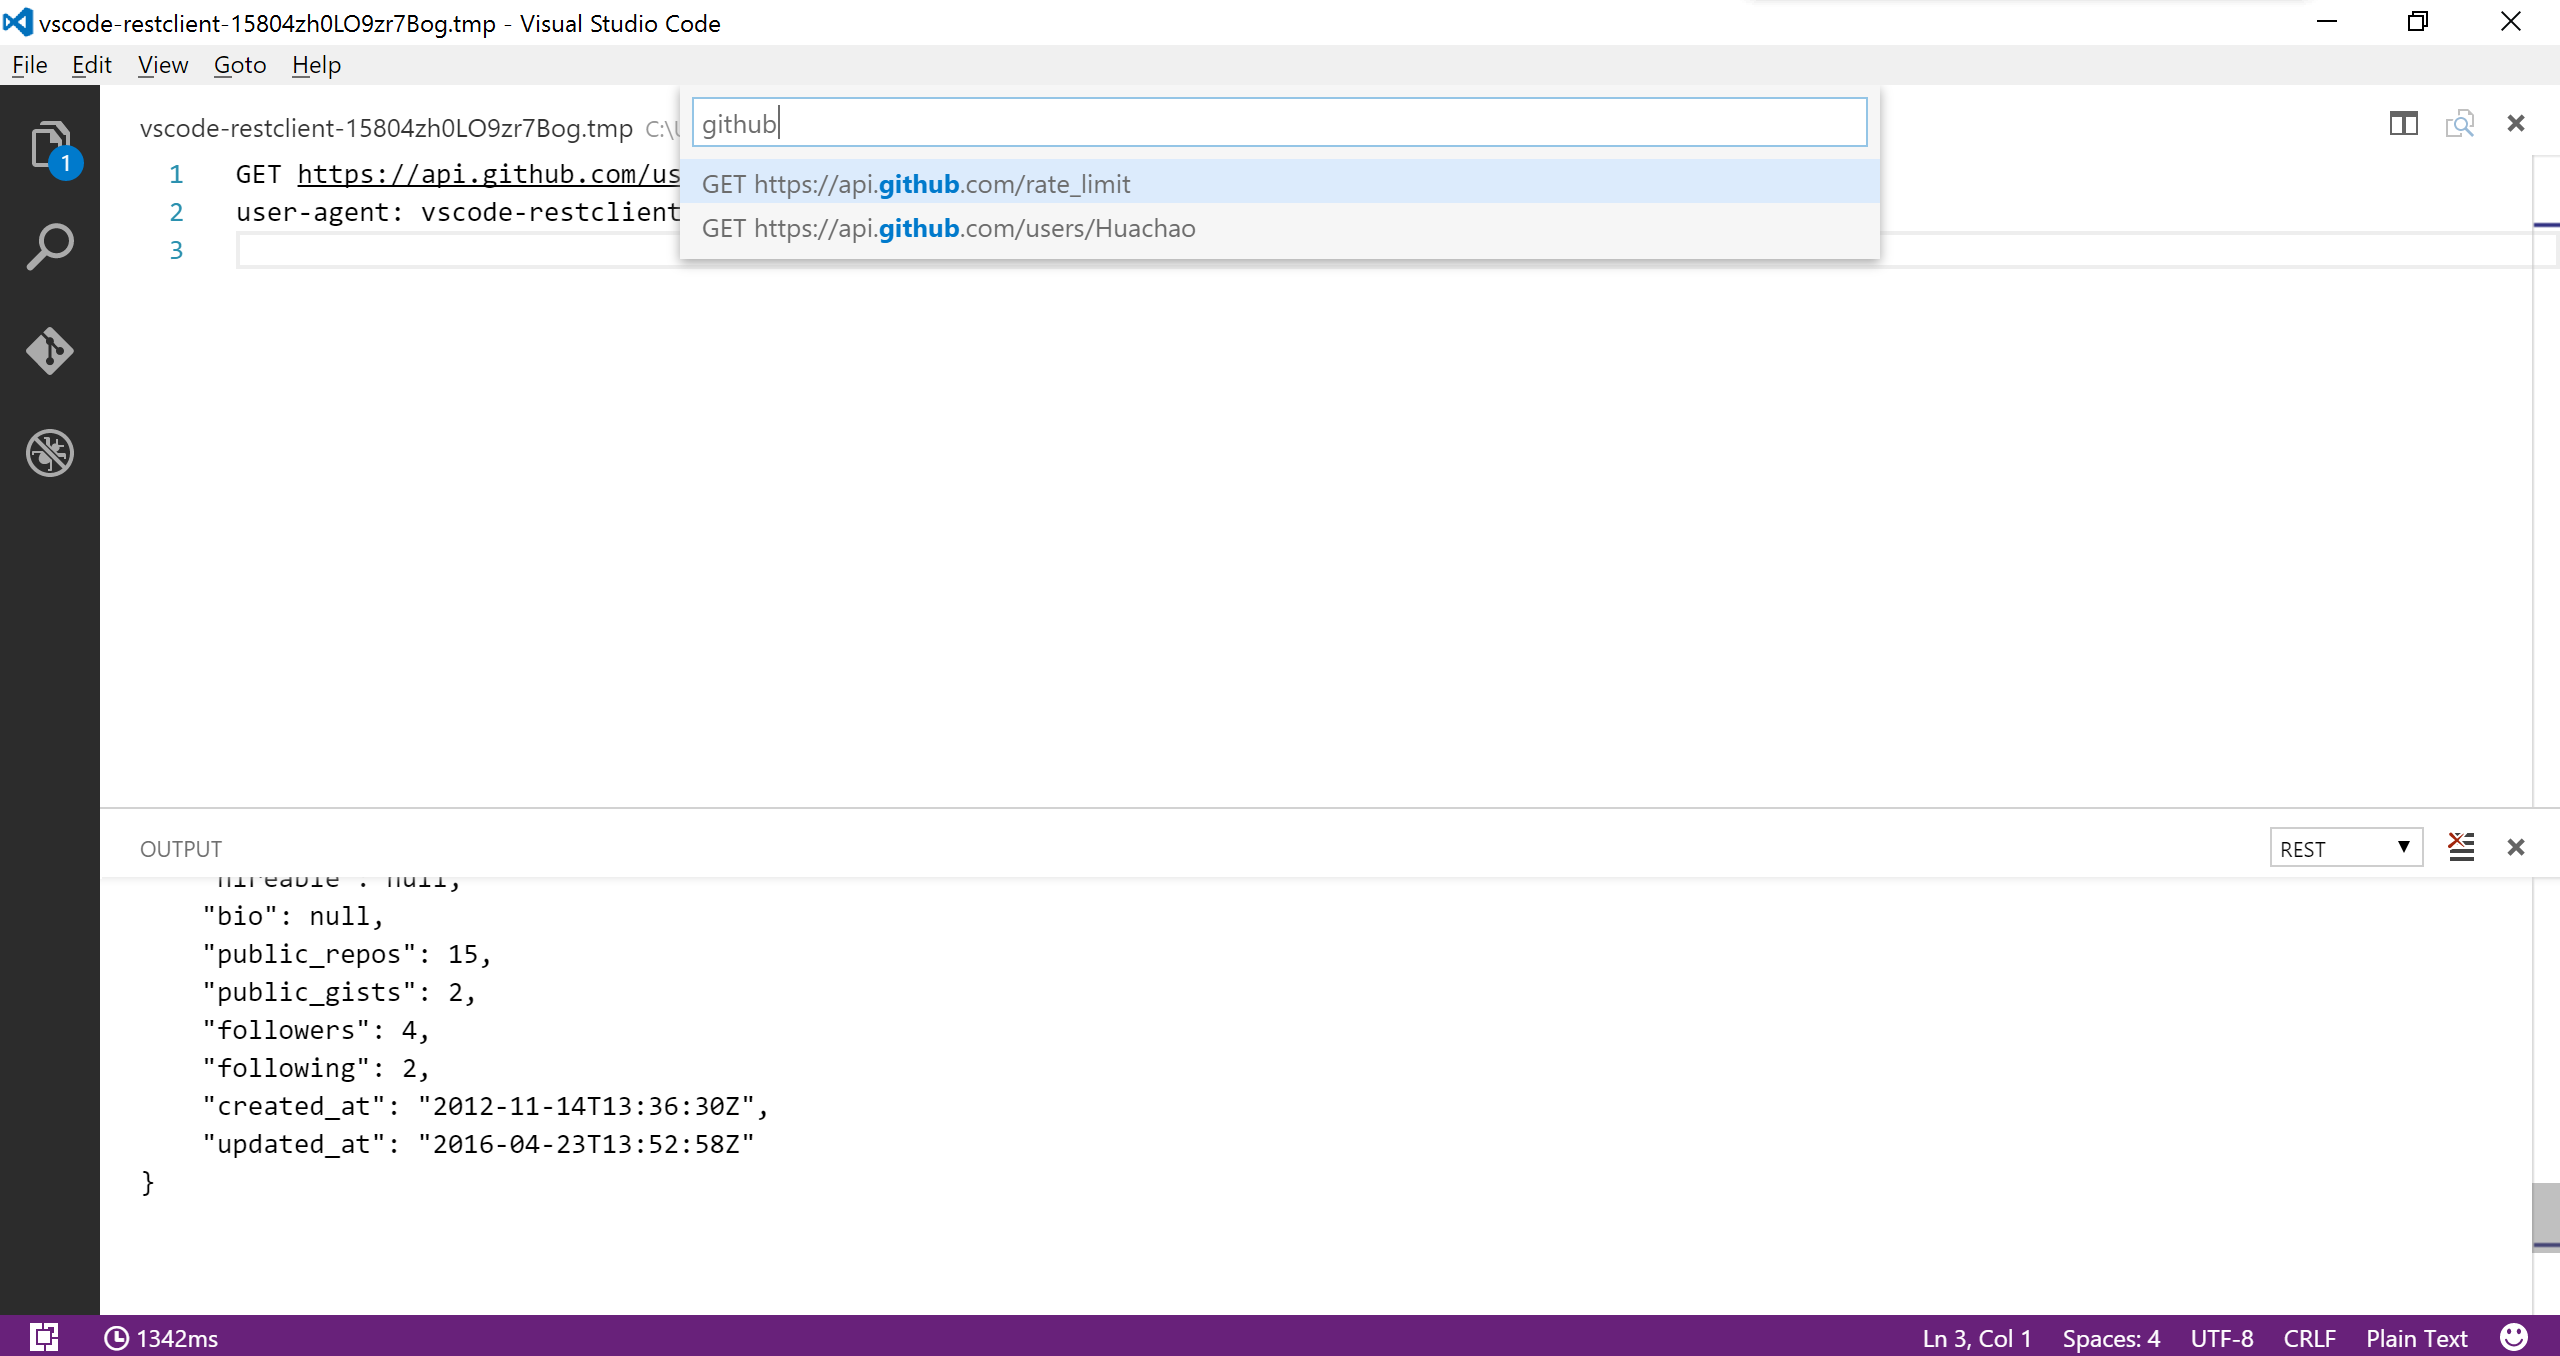
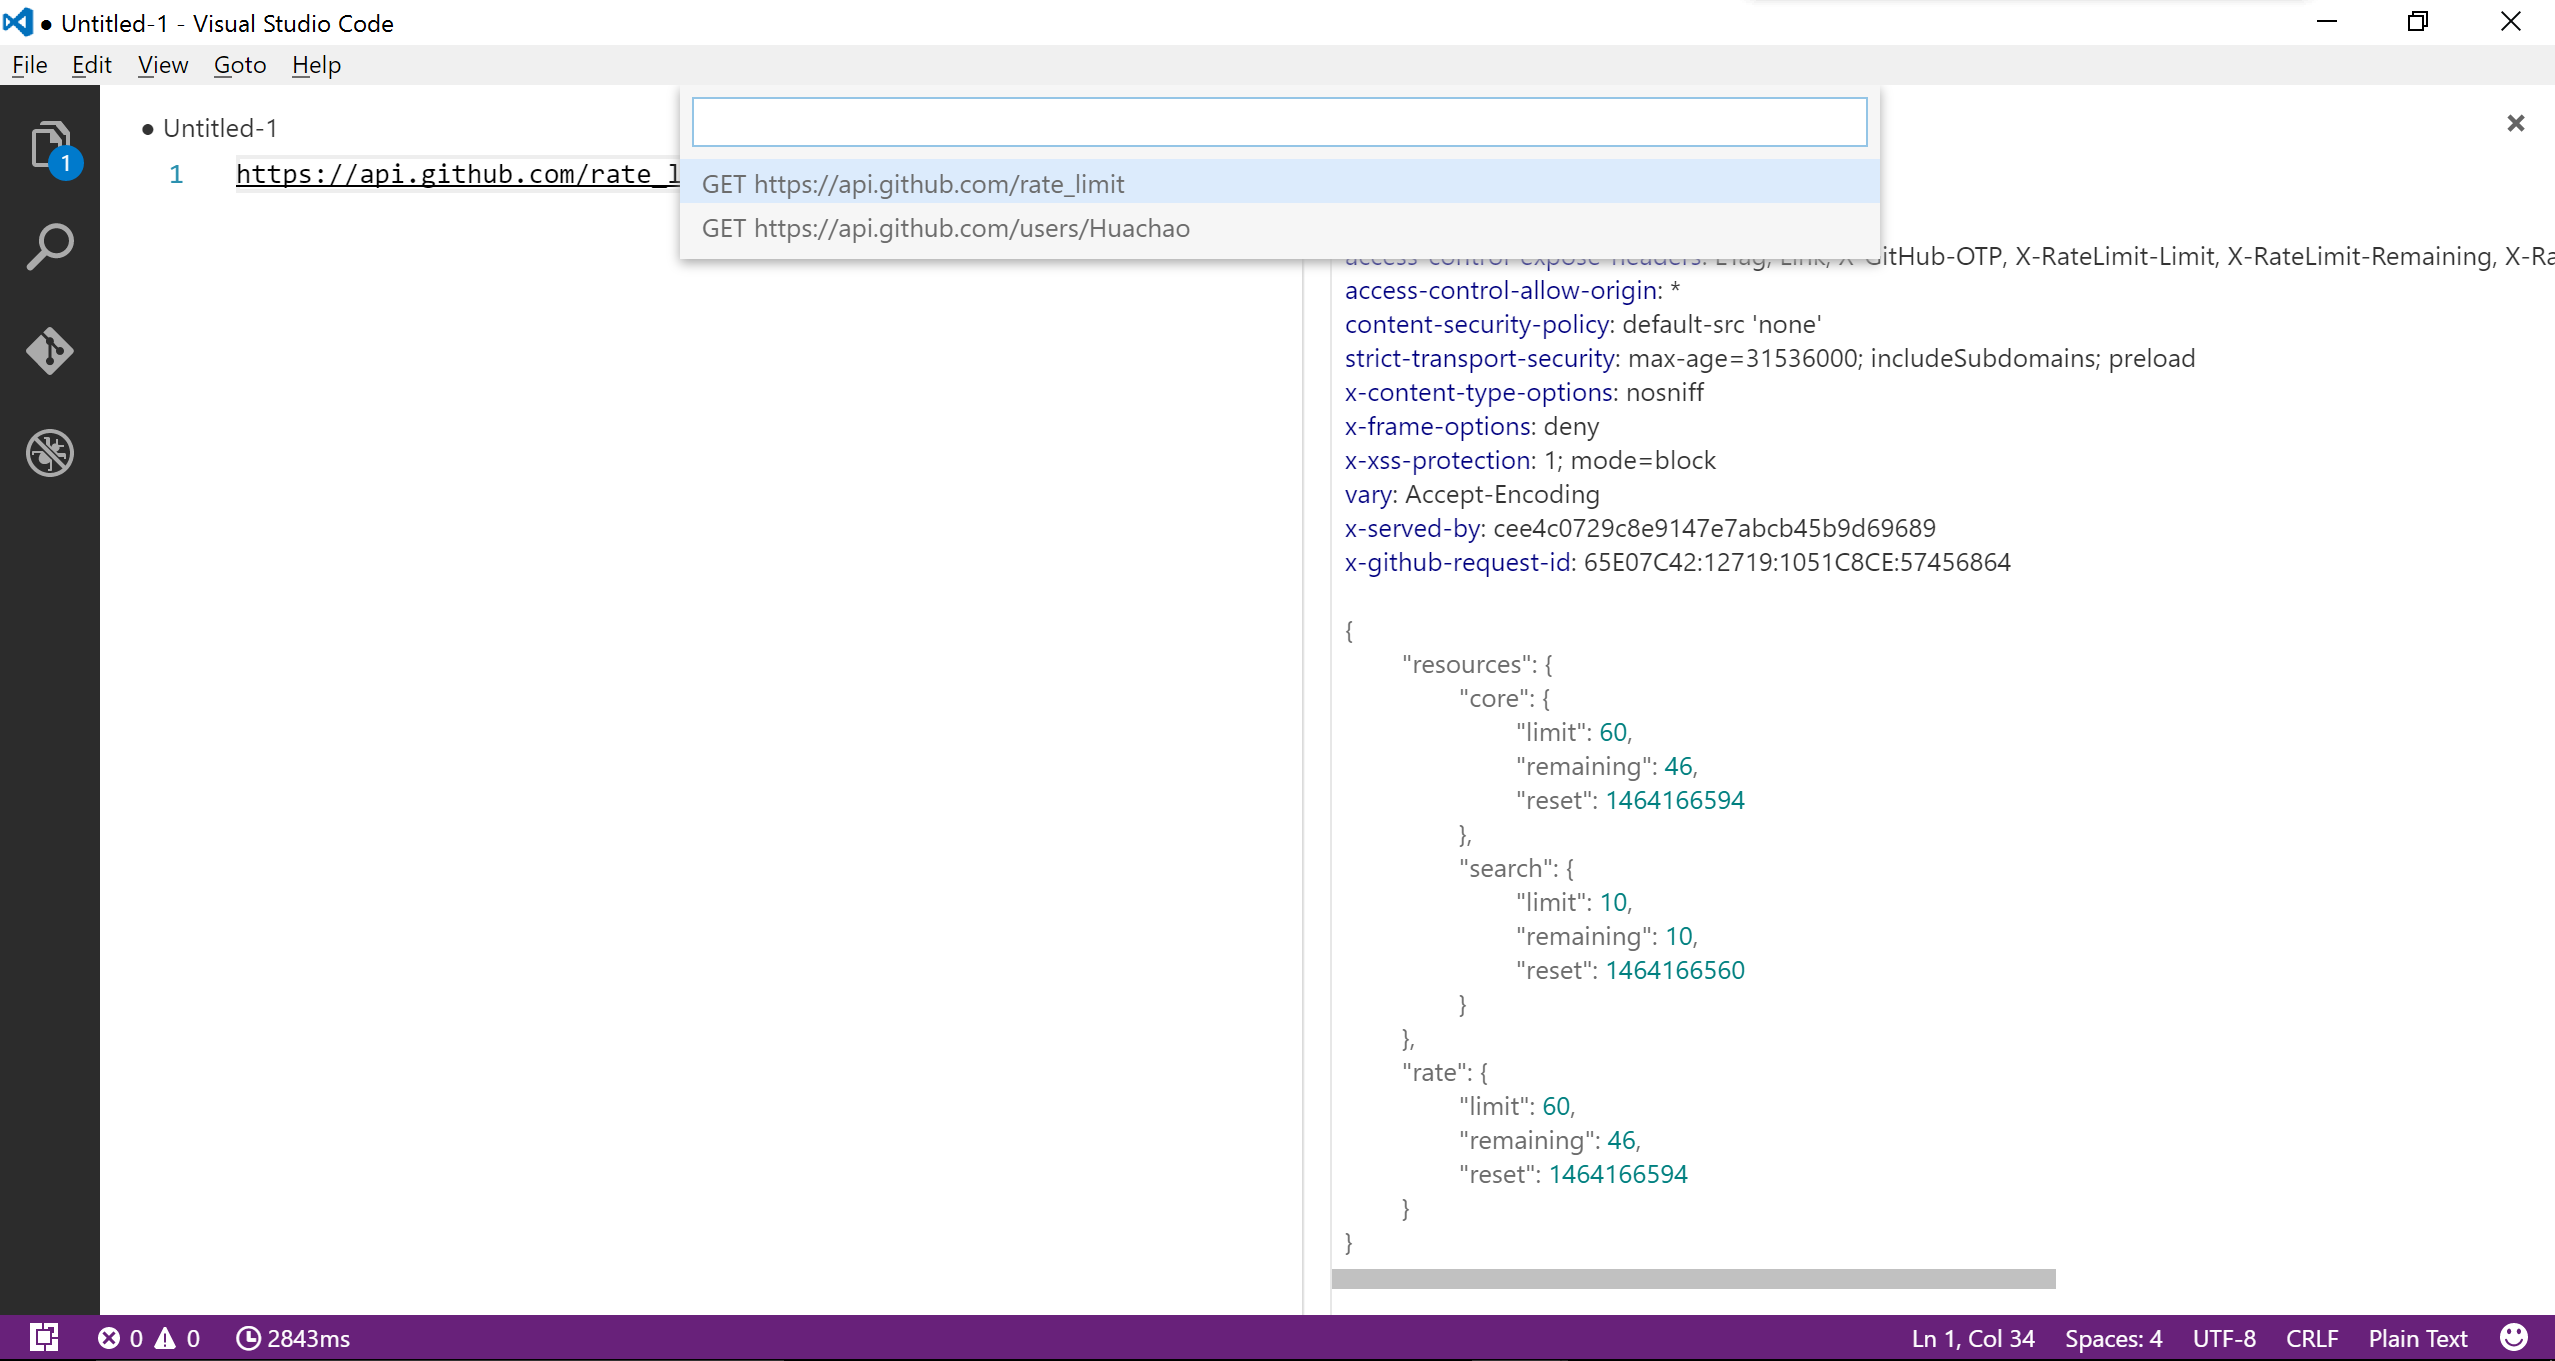
Implement issue #1

diff --git a/src/controllers/requestController.ts b/src/controllers/requestController.ts
@@ -1,24 +1,28 @@
 "use strict";
 
-import { window, workspace, Uri, StatusBarItem, StatusBarAlignment, OutputChannel } from 'vscode';
+import { window, workspace, commands, Uri, StatusBarItem, StatusBarAlignment, ViewColumn, Disposable } from 'vscode';
 import { RequestParser } from '../parser'
-import { MimeUtility } from '../mimeUtility'
 import { HttpClient } from '../httpClient'
 import { HttpRequest } from '../models/httpRequest'
+import { HttpResponse } from '../models/httpResponse'
 import { RestClientSettings } from '../models/configurationSettings'
 import { PersistUtility } from '../persistUtility'
+import { HttpResponseTextDocumentContentProvider } from '../views/httpResponseTextDocumentContentProvider';
 
 export class RequestController {
-    private _outputChannel: OutputChannel;
     private _statusBarItem: StatusBarItem;
     private _restClientSettings: RestClientSettings;
     private _httpClient: HttpClient;
+    private _responseTextProvider: HttpResponseTextDocumentContentProvider;
+    private _registration: Disposable;
 
     constructor() {
-        this._outputChannel = window.createOutputChannel('REST');
         this._statusBarItem = window.createStatusBarItem(StatusBarAlignment.Left);
         this._restClientSettings = new RestClientSettings();
         this._httpClient = new HttpClient(this._restClientSettings);
+
+        this._responseTextProvider = new HttpResponseTextDocumentContentProvider(null);
+        this._registration = workspace.registerTextDocumentContentProvider('rest-response', this._responseTextProvider);
     }
 
     run() {
@@ -39,10 +43,6 @@ export class RequestController {
             return;
         }
 
-        if (this._restClientSettings.clearOutput) {
-            this._outputChannel.clear();
-        }
-
         // clear status bar
         this._statusBarItem.text = `$(cloud-upload)`;
         this._statusBarItem.show();
@@ -56,30 +56,18 @@ export class RequestController {
         // set http request
         this._httpClient.send(httpRequest)
             .then(response => {
-                let output = `HTTP/${response.httpVersion} ${response.statusCode} ${response.statusMessage}\n`
-                for (var header in response.headers) {
-                    if (response.headers.hasOwnProperty(header)) {
-                        var value = response.headers[header];
-                        output += `${header}: ${value}\n`
-                    }
-                }
-
-                let body = response.body;
-                let contentType = response.headers['content-type'];
-                if (contentType) {
-                    let type = MimeUtility.parse(contentType).type;
-                    if (type === 'application/json') {
-                        body = JSON.stringify(JSON.parse(body), null, 4);
-                    }
-                }
-
-                output += `\n${body}`;
-                this._outputChannel.appendLine(`${output}\n`);
-                this._outputChannel.show(true);
-
                 this._statusBarItem.text = ` $(clock) ${response.elapsedMillionSeconds}ms`;
                 this._statusBarItem.tooltip = 'duration';
 
+                this._responseTextProvider.response = response;
+
+                let previewUri = Uri.parse(`rest-response://authority/response-preview-${Date.now()}`);
+
+                commands.executeCommand('vscode.previewHtml', previewUri, ViewColumn.Two).then((success) => {
+                    }, (reason) => {
+                        window.showErrorMessage(reason);
+                    });
+ 
                 // persist to history json file
                 PersistUtility.save(httpRequest);
             })
@@ -88,13 +76,12 @@ export class RequestController {
                     error = `Error: Timed out in ${this._restClientSettings.timeoutInMilliseconds}ms according to your configuration 'rest-client.timeoutinmilliseconds'.`;
                 }
                 this._statusBarItem.text = '';
-                this._outputChannel.appendLine(`${error}\n`);
-                this._outputChannel.show(true);
+                window.showErrorMessage(error.message);
             });
     }
 
     dispose() {
-        this._outputChannel.dispose();
         this._statusBarItem.dispose();
+        this._registration.dispose();
     }
 }

diff --git a/src/views/httpResponseTextDocumentContentProvider.ts b/src/views/httpResponseTextDocumentContentProvider.ts
@@ -1,0 +1,76 @@
+"use strict";
+
+import { TextDocumentContentProvider, EventEmitter, Event, Uri } from 'vscode';
+import { HttpResponse } from '../models/httpResponse'
+import { MimeUtility } from '../mimeUtility'
+
+export class HttpResponseTextDocumentContentProvider implements TextDocumentContentProvider  {
+    private static _tagsToReplace = {
+        '&': '&amp;',
+        '<': '&lt;',
+        '>': '&gt;',
+    };
+
+    private _onDidChange = new EventEmitter<Uri>();
+    response: HttpResponse;
+
+    constructor(response: HttpResponse) {
+        this.response = response;
+    }
+
+    public provideTextDocumentContent(uri: Uri): string {
+        if (this.response) {
+            return `
+            <head>
+                <link rel="stylesheet" href="https://cdnjs.cloudflare.com/ajax/libs/highlight.js/9.4.0/styles/github.min.css">
+                <script src="https://cdn.jsdelivr.net/highlight.js/9.4.0/highlight.min.js"></script>
+            </head>
+            <body>
+                <script>hljs.initHighlightingOnLoad();</script>
+                <div>
+                <pre><code class="http" style="background-color: white">
+HTTP/${this.response.httpVersion} <b>${this.response.statusCode} ${this.response.statusMessage}</b> <i>${this.response.elapsedMillionSeconds}ms</i>
+${HttpResponseTextDocumentContentProvider.formatHeaders(this.response.headers)}
+${HttpResponseTextDocumentContentProvider.formatBody(this.response.body, this.response.headers['content-type'])}
+</code></pre>
+</div>
+            </body>`;
+        }
+    }
+
+    get onDidChange(): Event<Uri> {
+        return this._onDidChange.event;
+    }
+    
+    public update(uri: Uri) {
+        this._onDidChange.fire(uri);
+    }
+    
+    private static formatHeaders(headers: { [key: string]: string }): string {
+        let headerString = '';
+        for (var header in headers) {
+            if (headers.hasOwnProperty(header)) {
+                var value = headers[header];
+                headerString += `${header}: ${value}\n`;
+            }
+        }
+        return headerString;
+    }
+
+    private static formatBody(body: string, contentType: string): string {
+        if (contentType) {
+            let type = MimeUtility.parse(contentType).type;
+            if (type === 'application/json') {
+                return JSON.stringify(JSON.parse(body), null, 8);
+            }
+        }
+
+        return HttpResponseTextDocumentContentProvider.escase(body);
+    }
+
+    private static escase(data: string): string {
+        return data.replace(/[&<>]/g, function(tag) {
+            return HttpResponseTextDocumentContentProvider._tagsToReplace[tag] || tag;
+    });
+    }
+}

diff --git a/src/persistUtility.ts b/src/persistUtility.ts
@@ -1,6 +1,6 @@
 'use strict';
 
-import { extensions, Extension, window, OutputChannel } from 'vscode';
+import { extensions, Extension, window } from 'vscode';
 import { HttpRequest } from './models/httpRequest'
 import * as Constants from './constants'
 import * as fs from 'fs'

diff --git a/README.md b/README.md
@@ -18,7 +18,7 @@ content-type: application/json
     "time": "Wed, 21 Oct 2015 18:27:50 GMT"
 }
 ```
-Once you prepared a request, use shortcut `Ctrl+Alt+R`, or press `F1` and then select/type `Rest Client: Send Request`, the response will be displayed in the output window at the bottom of Visual Studio Code.
+Once you prepared a request, use shortcut `Ctrl+Alt+R`, or press `F1` and then select/type `Rest Client: Send Request`, the response will be previewed in seperate panel of Visual Studio Code.
 
 ## Install
 Press `F1`, type `ext install rest-client`.
